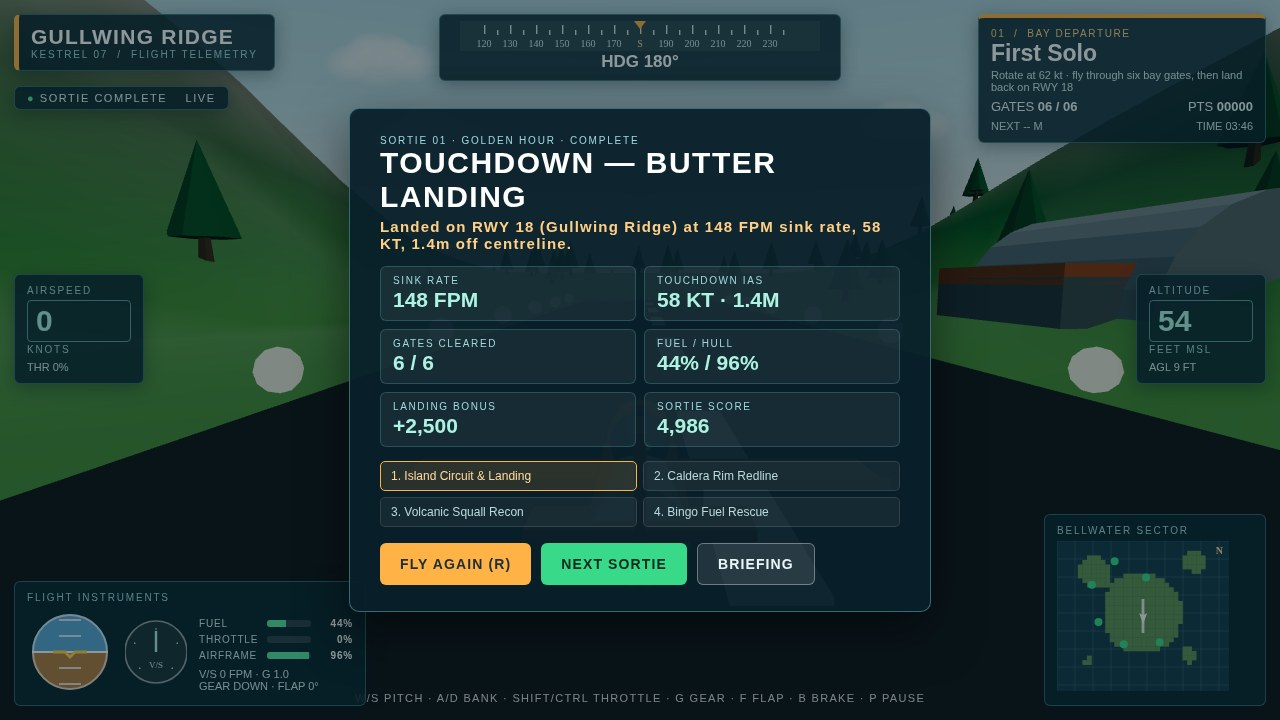
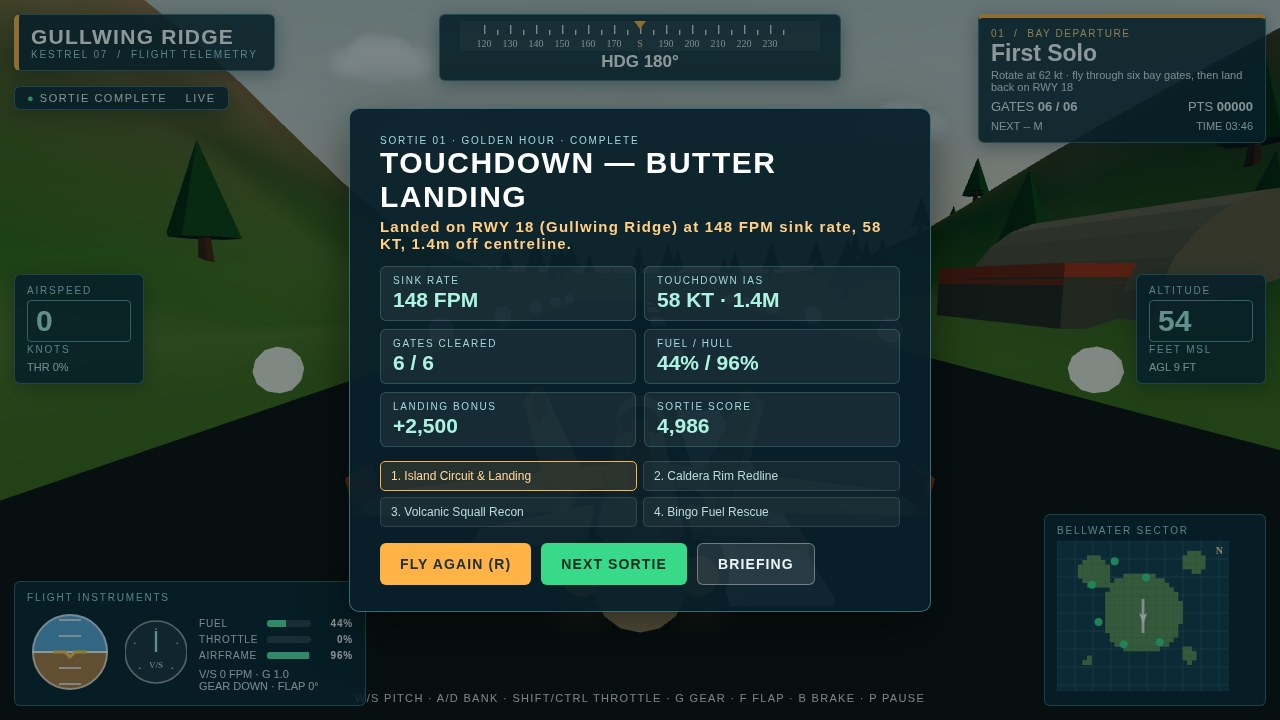
Jet rebuild (pure code): twin-tail twin-engine Kestrel with exhaust glow, golden-hour sky, sun and fog

diff --git a/game/src/main.js b/game/src/main.js
@@ -61,15 +61,15 @@ renderer.toneMappingExposure = 1.12;
 renderer.shadowMap.enabled = true;
 renderer.shadowMap.type = THREE.PCFSoftShadowMap;
 const scene = new THREE.Scene();
-scene.background = new THREE.Color(0x8ec9d8);
-scene.fog = new THREE.Fog(0xb9d9de, 1600, 6800);
+scene.background = new THREE.Color(0xeac49a);
+scene.fog = new THREE.Fog(0xe3c298, 1500, 6600);
 /* gradient sky dome with a warm glow around the sun's side of the sky */
 function buildSky() {
   const geo = new THREE.SphereGeometry(9000, 24, 14);
   const pos = geo.attributes.position;
   const colors = new Float32Array(pos.count * 3);
-  const top = new THREE.Color(0x3f8fc4), mid = new THREE.Color(0x9fd3e0);
-  const low = new THREE.Color(0xe9e4c8), tmp = new THREE.Color();
+  const top = new THREE.Color(0x466e7d), mid = new THREE.Color(0xb3beb2);
+  const low = new THREE.Color(0xf6bf78), tmp = new THREE.Color();
   for (let i = 0; i < pos.count; i++) {
     const y = pos.getY(i) / 9000;
     if (y > 0.12) tmp.copy(mid).lerp(top, Math.min(1, (y - 0.12) / 0.7));
@@ -88,8 +88,8 @@ window.addEventListener('resize', () => {
   camera.updateProjectionMatrix();
   renderer.setSize(window.innerWidth, window.innerHeight);
 });
-scene.add(new THREE.HemisphereLight(0xcfeeff, 0x3d6b46, 0.95));
-const sun = new THREE.DirectionalLight(0xfff2d8, 1.2);
+scene.add(new THREE.HemisphereLight(0xffdfb0, 0x4a6741, 0.85));
+const sun = new THREE.DirectionalLight(0xffc98a, 1.3);
 sun.position.set(-900, 1400, -600);
 sun.castShadow = true;
 sun.shadow.mapSize.set(2048, 2048);
@@ -135,7 +135,7 @@ scene.add(buildTerrain());
 /* sea surface (translucent, animated in the loop) */
 const sea = new THREE.Mesh(
   new THREE.PlaneGeometry(WORLD * 2.4, WORLD * 2.4),
-  new THREE.MeshPhongMaterial({ color: 0x2e86ab, specular: 0xbfe8ef, shininess: 110, transparent: true, opacity: 0.9 })
+  new THREE.MeshPhongMaterial({ color: 0x2e86ab, specular: 0x7fa8ad, shininess: 170, transparent: true, opacity: 0.9 })
 );
 sea.rotation.x = -Math.PI / 2; sea.position.y = 0.4;
 scene.add(sea);
@@ -240,19 +240,89 @@ function buildClouds() {
 }
 buildClouds();
 
-/* ---------- the Kestrel 07: low-poly prop plane, orange & cream ---------- */
+/* ---------- the Kestrel 07: twin-tail jet, white & orange (ref-2 shape) ----------
+   Built entirely from code geometry: swept extruded wings, canted twin fins,
+   two round engines with throttle-driven exhaust glow. No model files. */
+function flatShape(points, thickness) {
+  const shape = new THREE.Shape();
+  shape.moveTo(points[0][0], points[0][1]);
+  for (let i = 1; i < points.length; i++) shape.lineTo(points[i][0], points[i][1]);
+  shape.closePath();
+  return new THREE.ExtrudeGeometry(shape, { depth: thickness, bevelEnabled: false });
+}
 function buildPlane() {
   const g = new THREE.Group();
-  const cream = new THREE.MeshPhongMaterial({ color: 0xf3e3c2, shininess: 26, specular: 0x555044 });
+  const white = new THREE.MeshPhongMaterial({ color: 0xf2f0ea, shininess: 34, specular: 0x666055 });
   const orange = new THREE.MeshPhongMaterial({ color: 0xe86f2e, shininess: 30, specular: 0x664422 });
   const dark = new THREE.MeshLambertMaterial({ color: 0x2b3438, flatShading: true });
-  const glass = new THREE.MeshPhongMaterial({ color: 0x1d4e63, shininess: 120, specular: 0xcfe8ff });
-  const fus = new THREE.Mesh(new THREE.CylinderGeometry(1.05, 0.55, 8.6, 18), cream);
+  const glass = new THREE.MeshPhongMaterial({ color: 0x14242e, shininess: 140, specular: 0xd8ecff });
+  const fus = new THREE.Mesh(new THREE.CylinderGeometry(0.92, 0.78, 9.6, 18), white);
   fus.rotation.x = Math.PI / 2; g.add(fus);
-  const nose = new THREE.Mesh(new THREE.CylinderGeometry(1.12, 1.05, 1.6, 18), orange);
-  nose.rotation.x = Math.PI / 2; nose.position.z = -4.9; g.add(nose);
-  const cockpit = new THREE.Mesh(new THREE.SphereGeometry(1.02, 16, 12), glass);
-  cockpit.scale.set(0.82, 0.72, 1.7); cockpit.position.set(0, 0.78, -0.7); g.add(cockpit);
+  const nose = new THREE.Mesh(new THREE.CylinderGeometry(0.16, 0.92, 2.6, 18), white);
+  nose.rotation.x = Math.PI / 2; nose.position.z = -6.05; g.add(nose);
+  const tailCone = new THREE.Mesh(new THREE.CylinderGeometry(0.78, 0.5, 1.8, 14), white);
+  tailCone.rotation.x = Math.PI / 2; tailCone.position.z = 5.6; g.add(tailCone);
+  const cockpit = new THREE.Mesh(new THREE.SphereGeometry(0.86, 16, 12), glass);
+  cockpit.scale.set(0.78, 0.62, 1.9); cockpit.position.set(0, 0.66, -3.3); g.add(cockpit);
+  const spine = new THREE.Mesh(new THREE.BoxGeometry(0.5, 0.3, 6.4), orange);
+  spine.position.set(0, 0.88, 1.2); g.add(spine);
+  // swept wings: shape drawn with +Y as forward, extruded thin, laid flat
+  for (const sx of [-1, 1]) {
+    const wingGeo = flatShape([[0.6 * sx, 2.0], [6.9 * sx, -0.7], [6.9 * sx, -1.9], [0.6 * sx, -1.5]], 0.2);
+    const wing = new THREE.Mesh(wingGeo, white);
+    wing.rotation.x = -Math.PI / 2;
+    wing.position.set(0, -0.42, 0);
+    g.add(wing);
+    const winglet = new THREE.Mesh(new THREE.BoxGeometry(0.18, 1.0, 1.15), orange);
+    winglet.position.set(sx * 6.85, 0.05, 1.35);
+    winglet.rotation.z = sx * -0.25;
+    g.add(winglet);
+    const intake = new THREE.Mesh(new THREE.BoxGeometry(1.1, 0.62, 2.6), dark);
+    intake.position.set(sx * 1.55, -0.62, -0.4); g.add(intake);
+    const nav = new THREE.Mesh(new THREE.SphereGeometry(0.2, 6, 5),
+      new THREE.MeshBasicMaterial({ color: sx < 0 ? 0xff4444 : 0x44ff77 }));
+    nav.position.set(sx * 6.9, -0.3, 0.6); g.add(nav);
+    // rear engines with glowing exhausts
+    const eng = new THREE.Mesh(new THREE.CylinderGeometry(0.6, 0.54, 3.6, 14), dark);
+    eng.rotation.x = Math.PI / 2; eng.position.set(sx * 1.08, -0.28, 3.6); g.add(eng);
+    const exhaust = new THREE.Mesh(new THREE.CircleGeometry(0.4, 14),
+      new THREE.MeshBasicMaterial({ color: 0xd97a24 }));
+    exhaust.position.set(sx * 1.08, -0.28, 5.42); g.add(exhaust);
+    // horizontal stabilisers
+    const stabGeo = flatShape([[1.0 * sx, 0.9], [3.1 * sx, -0.5], [3.1 * sx, -1.2], [1.0 * sx, -0.7]], 0.16);
+    const stab = new THREE.Mesh(stabGeo, white);
+    stab.rotation.x = -Math.PI / 2; stab.position.set(0, 0.28, 4.4); g.add(stab);
+    // canted twin fins, orange-tipped
+    const finGeo = flatShape([[2.2, 0.1], [0.7, 2.6], [-0.9, 2.6], [-1.7, 0.1]], 0.16);
+    const fin = new THREE.Mesh(finGeo, white);
+    fin.rotation.y = Math.PI / 2;
+    const finWrap = new THREE.Group();
+    finWrap.add(fin);
+    finWrap.position.set(sx * 1.62, 0.3, 3.05);
+    finWrap.rotation.z = sx * -0.3;
+    g.add(finWrap);
+    const finTipGeo = flatShape([[0.7, 2.6], [-0.9, 2.6], [-1.05, 2.05], [0.45, 2.05]], 0.17);
+    const finTip = new THREE.Mesh(finTipGeo, orange);
+    finTip.rotation.y = Math.PI / 2;
+    finWrap.add(finTip);
+  }
+  // exhaust glow sprites, fed by throttle in the main loop
+  const glowC = document.createElement('canvas'); glowC.width = glowC.height = 128;
+  const gc = glowC.getContext('2d');
+  const grad = gc.createRadialGradient(64, 64, 4, 64, 64, 62);
+  grad.addColorStop(0, 'rgba(255,190,90,0.95)');
+  grad.addColorStop(0.4, 'rgba(255,120,40,0.55)');
+  grad.addColorStop(1, 'rgba(255,90,20,0)');
+  gc.fillStyle = grad; gc.fillRect(0, 0, 128, 128);
+  const glowTex = new THREE.CanvasTexture(glowC);
+  const glowMat = new THREE.SpriteMaterial({ map: glowTex, transparent: true, opacity: 0.2, blending: THREE.AdditiveBlending, depthWrite: false });
+  for (const sx of [-1, 1]) {
+    const glow = new THREE.Sprite(glowMat);
+    glow.scale.set(1.9, 1.9, 1);
+    glow.position.set(sx * 1.08, -0.28, 5.9);
+    g.add(glow);
+  }
+  g.userData.glowMat = glowMat;
   // painted name decals on both flanks, drawn on a canvas (no image files)
   const decalC = document.createElement('canvas'); decalC.width = 512; decalC.height = 96;
   const dc = decalC.getContext('2d');
@@ -260,48 +330,27 @@ function buildPlane() {
   dc.fillText('K E S T R E L', 256, 62);
   const decalTex = new THREE.CanvasTexture(decalC);
   for (const sx of [-1, 1]) {
-    const decal = new THREE.Mesh(new THREE.PlaneGeometry(4.6, 0.86),
+    const decal = new THREE.Mesh(new THREE.PlaneGeometry(4.4, 0.82),
       new THREE.MeshBasicMaterial({ map: decalTex, transparent: true, side: THREE.DoubleSide }));
-    decal.position.set(sx * 1.06, 0.18, 0.7);
+    decal.position.set(sx * 0.94, 0.16, -0.6);
     decal.rotation.y = sx * Math.PI / 2;
     g.add(decal);
-    const nav = new THREE.Mesh(new THREE.SphereGeometry(0.22, 6, 5),
-      new THREE.MeshBasicMaterial({ color: sx < 0 ? 0xff4444 : 0x44ff77 }));
-    nav.position.set(sx * 6.9, 0.15, -1.1); g.add(nav);
   }
-  const wing = new THREE.Mesh(new THREE.BoxGeometry(13.6, 0.28, 2.1), orange);
-  wing.position.set(0, -0.25, -1.1); g.add(wing);
-  const wingTipL = new THREE.Mesh(new THREE.BoxGeometry(0.5, 1.1, 1.9), dark);
-  wingTipL.position.set(-6.8, 0.15, -1.1); g.add(wingTipL);
-  const wingTipR = wingTipL.clone(); wingTipR.position.x = 6.8; g.add(wingTipR);
-  const tail = new THREE.Mesh(new THREE.BoxGeometry(4.6, 0.24, 1.4), orange);
-  tail.position.set(0, 0.25, 4.1); g.add(tail);
-  const fin = new THREE.Mesh(new THREE.BoxGeometry(0.24, 2.3, 1.6), orange);
-  fin.position.set(0, 1.2, 4.15); g.add(fin);
-  const prop = new THREE.Group();
-  const blade = new THREE.Mesh(new THREE.BoxGeometry(0.32, 4.6, 0.12), dark);
-  prop.add(blade);
-  const blade2 = blade.clone(); blade2.rotation.z = Math.PI / 2; prop.add(blade2);
-  const hub = new THREE.Mesh(new THREE.SphereGeometry(0.42, 8, 6), dark);
-  prop.add(hub); prop.position.z = -5.85; g.add(prop);
-  const blurDisc = new THREE.Mesh(new THREE.CircleGeometry(2.35, 24),
-    new THREE.MeshBasicMaterial({ color: 0x222222, transparent: true, opacity: 0, side: THREE.DoubleSide, depthWrite: false }));
-  blurDisc.position.z = -5.8; g.add(blurDisc);
-  g.userData.blurDisc = blurDisc;
   g.traverse((m) => { if (m.isMesh) m.castShadow = true; });
-  const gearMat = dark;
   const legs = new THREE.Group();
   for (const sx of [-1, 1]) {
-    const leg = new THREE.Mesh(new THREE.CylinderGeometry(0.14, 0.14, 1.5, 5), gearMat);
-    leg.position.set(sx * 1.7, -1.25, -1.2); legs.add(leg);
-    const wheel = new THREE.Mesh(new THREE.CylinderGeometry(0.55, 0.55, 0.35, 10), gearMat);
-    wheel.rotation.z = Math.PI / 2; wheel.position.set(sx * 1.7, -2.0, -1.2); legs.add(wheel);
+    const leg = new THREE.Mesh(new THREE.CylinderGeometry(0.13, 0.13, 1.4, 5), dark);
+    leg.position.set(sx * 1.5, -1.2, 0.5); legs.add(leg);
+    const wheel = new THREE.Mesh(new THREE.CylinderGeometry(0.52, 0.52, 0.34, 10), dark);
+    wheel.rotation.z = Math.PI / 2; wheel.position.set(sx * 1.5, -1.9, 0.5); legs.add(wheel);
   }
-  const tailWheel = new THREE.Mesh(new THREE.CylinderGeometry(0.34, 0.34, 0.24, 8), gearMat);
-  tailWheel.rotation.z = Math.PI / 2; tailWheel.position.set(0, -0.95, 4.2); legs.add(tailWheel);
+  const noseLeg = new THREE.Mesh(new THREE.CylinderGeometry(0.11, 0.11, 1.3, 5), dark);
+  noseLeg.position.set(0, -1.15, -3.6); legs.add(noseLeg);
+  const noseWheel = new THREE.Mesh(new THREE.CylinderGeometry(0.4, 0.4, 0.26, 10), dark);
+  noseWheel.rotation.z = Math.PI / 2; noseWheel.position.set(0, -1.8, -3.6); legs.add(noseWheel);
   g.add(legs);
-  const stripe = new THREE.Mesh(new THREE.BoxGeometry(2.16, 0.5, 5.4), orange);
-  stripe.position.set(0, 0.1, 0.6); g.add(stripe);
+  const prop = new THREE.Group(); // jets have no prop; kept so spin references stay harmless
+  g.userData.blurDisc = { material: { opacity: 0 } };
   return { group: g, prop, legs };
 }
 const plane = buildPlane();
@@ -943,10 +992,13 @@ function animate() {
     stepCamera(dt);
   }
   stepBursts(dt);
-  // keep the sun (and its shadows) centred on the action, spin blur with throttle
-  sun.position.set(S.pos.x - 700, 1150, S.pos.z - 460);
+  // keep the low golden-hour sun (and its shadows) centred on the action;
+  // the jet's exhaust glow breathes with throttle
+  sun.position.set(S.pos.x - 850, 560, S.pos.z - 420);
   sun.target.position.copy(S.pos);
-  plane.group.userData.blurDisc.material.opacity = S.throttle * 0.17;
+  if (plane.group.userData.glowMat) {
+    plane.group.userData.glowMat.opacity = 0.16 + S.throttle * 0.62 + Math.sin(t * 31) * 0.03;
+  }
   const targetFov = 58 + Math.min(8, Math.max(0, (S.speed - 30) * 0.16)) + (S.onGround && S.throttle > 0.8 ? Math.sin(t * 47) * 0.4 : 0);
   if (Math.abs(camera.fov - targetFov) > 0.05) { camera.fov += (targetFov - camera.fov) * 0.08; camera.updateProjectionMatrix(); }
   if (msgTimer > 0 && msgTimer < 900) { msgTimer -= dt; if (msgTimer <= 0) document.getElementById('msg').textContent = ''; }
